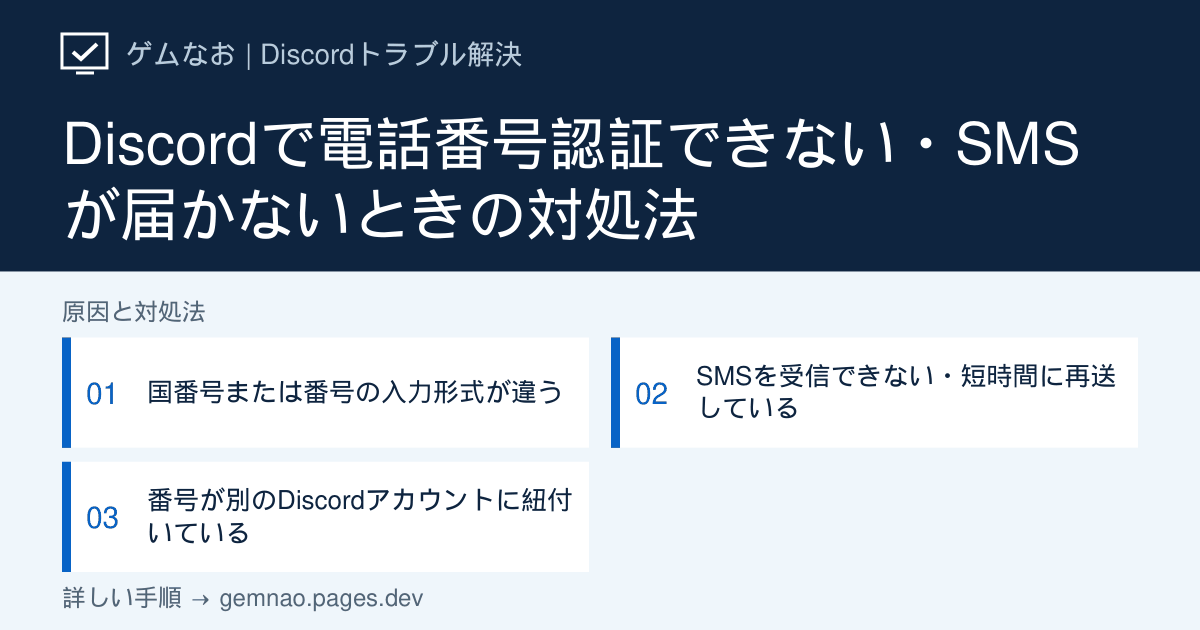
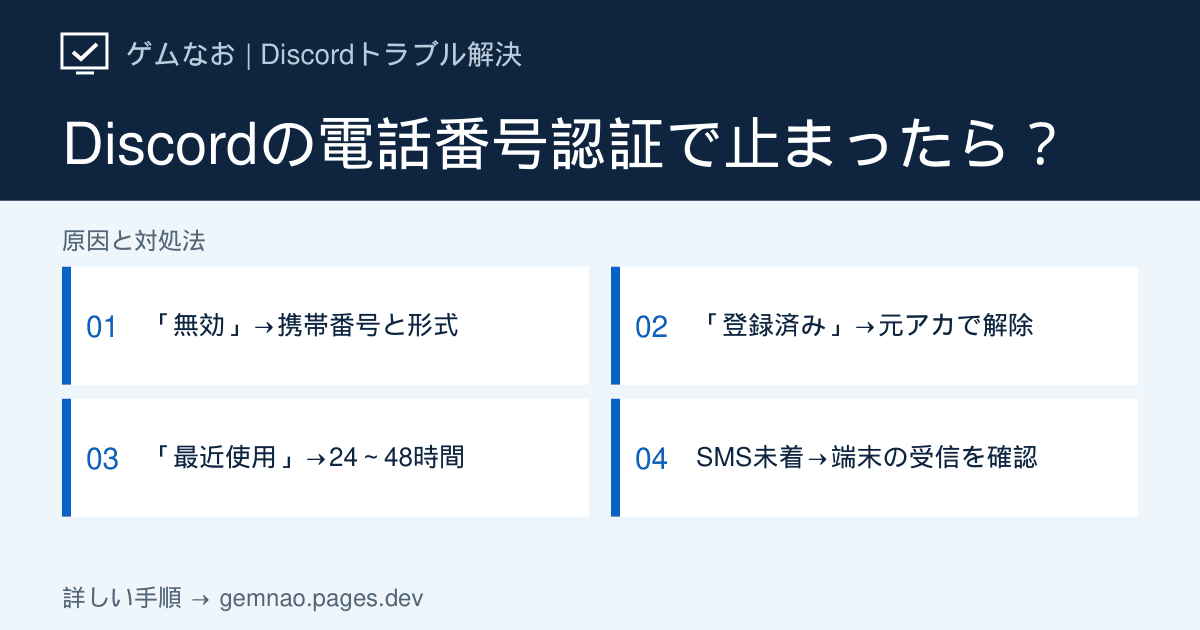
Improve Discord phone verification troubleshooting guide

diff --git a/lib/discord-audio-growth-articles.ts b/lib/discord-audio-growth-articles.ts
@@ -210,25 +210,151 @@ export const discordAudioGrowthArticles: DiscordArticle[] = [
     sources: [voiceGuide], related: ['cant-hear-voice', 'mic-volume-low', 'game-volume-lowers'], checkedAt: '2026-09-19', status: 'verified',
   },
   {
-    slug: 'phone-verification-error', category: 'launch',
-    title: 'Discordで電話番号認証できない・SMSが届かないときの対処法',
-    shortTitle: '電話番号認証できない',
-    seoTitle: 'Discordで電話番号認証できない・SMSが届かない時の対処法',
-    metaDescription: 'Discordで電話番号が無効と出る、認証SMSが届かない場合の確認事項。国番号、入力形式、既存アカウントとの紐付け、時間制限を安全に確認します。',
-    symptom: '電話番号認証で「無効な電話番号」と表示される、SMSの確認コードが届かない、同じ番号を使用できない場合の手順です。',
-    target: 'Discordデスクトップ版 / ブラウザ版 / モバイル版',
-    conclusion: '国番号と入力形式を確認し、短時間の再送を止めて待ちます。同じ番号が別アカウントに登録されていないか確認し、解決しなければ公式サポートへ問い合わせます。',
-    quickFixes: ['国番号と電話番号の入力形式を確認する', 'SMS拒否設定と通信状態を確認し、再送を連打せず待つ', '別アカウントに同じ番号が登録されていないか確認する'],
+    slug: 'phone-verification-error',
+    category: 'launch',
+    title:
+      'Discordの電話番号認証ができない｜無効・登録済み・SMSが届かない場合の直し方',
+    shortTitle: '電話番号認証・SMSが届かない',
+    seoTitle:
+      'Discordの電話番号認証ができない｜無効・登録済み・SMS未着の対処法',
+    metaDescription:
+      'Discordの電話番号認証を表示別に切り分け。「無効な電話番号」「すでに登録済み」、SMS未着、レート制限で確認する場所と次の操作を公式サポートに沿って解説。',
+    symptom:
+      '電話番号を入力すると「無効」「すでに登録済み」と出る、番号は受け付けられたのにSMSが届かない、または「最近使用された」と表示される。エラー文と止まった段階を見て手順を選んでください。',
+    target: 'Discordのアカウント電話番号認証／PC・スマートフォン',
+    conclusion:
+      '「無効」なら入力形式と携帯番号かを確認。「すでに登録済み」なら登録元のアカウントで番号を外します。番号が受け付けられた後にSMSだけ届かない場合は端末の受信と別のSMSを比べ、レート制限の表示が出た場合だけ公式案内の24〜48時間待機を適用します。',
+    quickFixes: [
+      '画面の文言を控える：「無効」「登録済み」「最近使用」「SMS送信後」のどれか',
+      '該当する行の手順を選び、認証コードの再送や番号変更を連続で試さない',
+      '解決しなければエラー文・発生日時・試した操作を添えてDiscord公式サポートへ',
+    ],
+    diagnosisTitle: '何と表示される？ 電話番号認証の判定表',
+    diagnosisIntro:
+      '入力時に拒否されたのか、番号の登録後にSMSだけ来ないのかで確認先が変わります。レート制限の24〜48時間は、SMSが届かないすべてのケースに当てはまる待ち時間ではありません。',
+    showStatusCheck: false,
+    diagnosis: [
+      {
+        symptom: '「無効な電話番号」と表示される',
+        check: '国・地域の選択、画面の入力例、SMSを受信できる携帯番号か',
+        causeIndex: 1,
+      },
+      {
+        symptom: '「電話番号はすでに登録されています」などと出る',
+        check: '以前の自分のDiscordアカウントにその番号が登録されていないか',
+        causeIndex: 2,
+      },
+      {
+        symptom: '「レートリミット」「最近使用された」と表示される',
+        check: '公式案内の待機対象。追加操作をせず、24〜48時間後に再試行',
+        causeIndex: 3,
+      },
+      {
+        symptom: '番号は受け付けられたが、認証SMSが届かない',
+        check: '端末でほかのSMSが受信できるか、ブロックや迷惑SMSの設定はどうか',
+        causeIndex: 4,
+      },
+    ],
     causes: [
-      { title: '国番号または番号の入力形式が違う', description: '国の選択と国内番号の入力方法が合わないと無効と判定されます。', actions: ['国・地域に日本が選ばれているか確認する', '画面の入力例に従って番号を入れ直す', '空白や不要な記号が入っていないか確認する'] },
-      { title: 'SMSを受信できない・短時間に再送している', description: '通信会社の迷惑SMS設定や一時的な送信制限が影響する場合があります。', actions: ['端末の電波状態とSMS受信を確認する', '迷惑SMS拒否設定を確認する', '再送を繰り返さず時間を置いて再試行する'] },
-      { title: '番号が別のDiscordアカウントに紐付いている', description: '同じ電話番号を複数アカウントで同時に利用できない場合があります。', actions: ['以前使ったDiscordアカウントを確認する', 'アクセス可能なら古いアカウント側の登録状況を確認する', '不明な場合は公式サポートへ状況を伝える'] },
+      {
+        title: '「無効な電話番号」なら形式と番号の種類を確認',
+        description:
+          'Discord公式は、国の番号形式に合う有効な携帯番号が必要で、固定電話・VoIP・使い捨て番号は利用できないと案内しています。',
+        actions: [
+          '電話番号入力画面で、住んでいる国・地域が正しいかを確認する。日本の携帯番号なら、日本が選ばれているか見る',
+          '入力欄の例に従って番号を入れ直す。国番号と先頭の0の扱いは画面の形式に従い、推測で足したり削ったりしない',
+          '固定電話・VoIP・使い捨て番号ではなく、本人が使える携帯番号か確認する',
+          '同じ番号と形式でまだ「無効」なら、エラー画面を控えて公式サポートへ相談する。別人の番号で回避しない',
+        ],
+        note: '「無効」と出ている間はSMSの受信設定を調べても、番号の受付可否は変わりません。先に画面上の入力結果を確認してください。',
+      },
+      {
+        title: '「すでに登録済み」なら登録元のアカウントで番号を外す',
+        description:
+          '同じ番号を同時に登録できるDiscordアカウントは1つです。元のアカウントへアクセスできるかで手順を分けます。',
+        actions: [
+          '以前使ったDiscordアカウントにログインできるなら、PC版・ブラウザ版で「ユーザー設定」→「マイアカウント」を開き、電話番号の「削除」を選んでパスワードを入力する',
+          'スマートフォン版なら自分のアイコン→設定→「アカウント」→「電話番号」→「電話番号を削除」へ進む。表示名はアプリ更新で変わる場合がある',
+          '削除後は元のアカウントに番号が表示されないことを確認する。解除後すぐに新アカウントへ登録できるとは限らず、待機期間がある',
+          '登録元のアカウントへ入れない場合は、公式の「電話番号を削除する方法」にあるアカウント復旧手順を確認する。利用したメールアドレスが分かる場合はそのアドレスから公式サポートへ相談する',
+        ],
+        note: 'Discord公式は、登録元アカウントのメールアドレスが不明な場合、サポート側でそのメールアドレスの開示や番号の解除はできないと案内しています。旧アカウントを推測で削除しないでください。',
+      },
+      {
+        title: '「レートリミット・最近使用された」なら待機する',
+        description:
+          'Discord公式が24〜48時間待つよう案内しているのは、この表示が出る場合です。番号解除後も再利用まで待機が必要な場合があります。',
+        actions: [
+          'エラー文が「レートリミット」「最近使用された」のどちらかに当てはまるか確認し、最後に試した日時を控える',
+          '電話番号の認証・再登録を連続で繰り返さず、公式案内に沿って24〜48時間待つ',
+          '待機後に同じ携帯番号で一度試す。今度は「無効」「登録済み」へ変わったら、該当する別の手順へ進む',
+          '48時間以上経っても同じ表示が続くなら、エラー全文と最後に試した日時を添えて公式サポートへ相談する',
+        ],
+        note: 'SMS未着だけで、この待機エラーが出ていない人に「必ず48時間待てば解決する」とは案内していません。',
+      },
+      {
+        title: '番号は通ったがSMSが届かないなら受信段階を比べる',
+        description:
+          '番号の入力エラーとは別の問題です。以下は端末とSMS受信を切り分けるための確認手順で、Discordが一律の配送時間を保証するものではありません。',
+        actions: [
+          '入力した番号の末尾と、今手元にあるSMS受信端末の番号が一致するか確認する。携帯回線が利用可能かも見る',
+          '標準のSMSアプリで、迷惑メッセージ・ブロック済みの欄を確認する。一般のSMSも届かないなら通信会社のSMS設定や受信状態を確認する',
+          '一般のSMSは届くがDiscordの認証SMSだけ届かないなら、認証画面の表示文を控え、再送を繰り返さずしばらく待ってから公式画面で一度だけ再試行する',
+          '同じ状態が続く場合は、使用端末と携帯会社、エラー表示の有無、最後に送信を試した日時をまとめてDiscord公式サポートへ相談する',
+        ],
+        note: 'SMSが届かないだけでは、番号が無効・登録済み・レート制限のどれかとは断定できません。新たなエラー文が表示されたら判定表の該当行を優先してください。',
+      },
     ],
-    ifNotFixed: '使い捨て・仮想番号などで認証を回避せず、Discord公式サポートへ問い合わせてください。確認コードや個人の電話番号を第三者へ送らないでください。',
+    ifNotFixed:
+      'Discord公式サポート（出典の「問い合わせフォーム」）へ、エラー全文・最終試行日時・デスクトップ／モバイルの別・試した手順を伝えてください。電話番号の全桁、SMS認証コード、パスワード、バックアップコードは記事のコメントや公開画面に載せず、公式の案内に従って扱ってください。',
+    followUp: {
+      title: '番号が以前のアカウントに付いていた場合',
+      description:
+        '旧アカウントへログインできない・誤って番号で別アカウントを作った場合には、Discord公式の番号削除ガイドに復旧操作と相談できる条件が載っています。',
+      href: 'https://support.discord.com/hc/ja/articles/4413460214807-How-to-Remove-a-Phone-Number-From-a-Discord-Account',
+      label: 'Discord公式の電話番号削除ガイドを開く',
+    },
     faqs: [
-      { question: '認証コードを何度送っても届きません', answer: '短時間の再送を止め、SMS拒否設定と通信状態を確認してください。時間を置いても届かない場合は通信会社またはDiscord公式サポートへ確認します。' },
-      { question: '使い捨て番号で認証してもよいですか？', answer: 'アカウントへ再アクセスできなくなる危険があるため案内しません。本人が継続して利用できる番号と公式手順を使用してください。' },
+      {
+        question: '電話番号を古いアカウントから削除したら、すぐ登録できますか？',
+        answer:
+          '必ずしもすぐには登録できません。Discord公式は番号の削除後に再利用までの待機期間があると案内しています。「最近使用された／レートリミット」と表示されたら24〜48時間待ち、それでも同じなら公式サポートへ相談してください。',
+      },
+      {
+        question: 'SMSが来ない場合も24〜48時間待つべきですか？',
+        answer:
+          '24〜48時間は「レートリミット／最近使用された」という表示に対するDiscord公式の目安です。SMS未着だけなら端末のSMS受信、番号の一致、エラー表示の有無を確かめてください。',
+      },
+      {
+        question: '前のアカウントの登録メールが分かりません。サポートで番号を外せますか？',
+        answer:
+          'Discord公式の番号削除ガイドは、登録元アカウントのメールアドレスが分からない場合、サポートはメールアドレスを教えたり番号を解除したりできないと案内しています。先に利用したメールや旧アカウントへのログイン手段を探し、公式の復旧手順を確認してください。',
+      },
     ],
-    sources: [discordSupportRequest, discordStatus], related: ['login-error', 'loading-stuck', 'not-opening'], checkedAt: '2026-09-19', status: 'verified',
+    sources: [
+      {
+        label: 'Discord公式：電話番号エラー別の対処法（日本語）',
+        url: 'https://support.discord.com/hc/ja/articles/26680694104215-Discordの電話番号エラーを修正する方法',
+      },
+      {
+        label: 'Discord公式：アカウント認証と24〜48時間の待機条件（日本語）',
+        url: 'https://support.discord.com/hc/ja/articles/6181726888215-Discordアカウントを認証する方法',
+      },
+      {
+        label: 'Discord公式：電話番号を削除する方法',
+        url: 'https://support.discord.com/hc/ja/articles/4413460214807-How-to-Remove-a-Phone-Number-From-a-Discord-Account',
+      },
+      discordSupportRequest,
+    ],
+    related: ['login-error', 'not-opening'],
+    checkedAt: '2026-09-27',
+    status: 'verified',
+    ogTitle: 'Discordの電話番号認証で止まったら？',
+    ogSteps: [
+      '「無効」→携帯番号と形式',
+      '「登録済み」→元アカで解除',
+      '「最近使用」→24〜48時間',
+      'SMS未着→端末の受信を確認',
+    ],
   },
 ];

diff --git a/app/discord/[slug]/page.tsx b/app/discord/[slug]/page.tsx
@@ -180,7 +180,9 @@ export default async function DiscordArticlePage({
           {item.diagnosis?.length ? (
             <a href="#diagnosis">症状別の判定表</a>
           ) : null}
-          <a href="#status-check">Discord全体の障害確認</a>
+          {item.showStatusCheck !== false ? (
+            <a href="#status-check">Discord全体の障害確認</a>
+          ) : null}
           {item.causes.map((cause, i) => (
             <a href={`#cause-${i + 1}`} key={cause.title}>
               {i + 1}. {cause.title}
@@ -243,24 +245,26 @@ export default async function DiscordArticlePage({
             </section>
           ) : null}
           {visual ? <SolutionIllustration visual={visual} /> : null}
-          <section className="caution-block" id="status-check">
-            <h2>
-              <ShieldAlert size={22} />
-              まずDiscord全体の障害か確認する
-            </h2>
-            <p>
-              PC側の設定を変更する前に、
-              <a
-                href="https://discordstatus.com/"
-                target="_blank"
-                rel="noreferrer"
-              >
-                Discord Status（公式）
-                <ExternalLink size={14} />
-              </a>
-              で大規模な障害が発生していないか確認してください。障害が発表されている場合は、設定変更を進めず復旧を待つことをおすすめします。ゲムなおはリアルタイムの障害状況を自動取得していないため、必ず公式ページで確認してください。
-            </p>
-          </section>
+          {item.showStatusCheck !== false ? (
+            <section className="caution-block" id="status-check">
+              <h2>
+                <ShieldAlert size={22} />
+                まずDiscord全体の障害か確認する
+              </h2>
+              <p>
+                PC側の設定を変更する前に、
+                <a
+                  href="https://discordstatus.com/"
+                  target="_blank"
+                  rel="noreferrer"
+                >
+                  Discord Status（公式）
+                  <ExternalLink size={14} />
+                </a>
+                で大規模な障害が発生していないか確認してください。障害が発表されている場合は、設定変更を進めず復旧を待つことをおすすめします。ゲムなおはリアルタイムの障害状況を自動取得していないため、必ず公式ページで確認してください。
+              </p>
+            </section>
+          ) : null}
           <InteractiveSteps
             contextSlug={`discord-${item.slug}`}
             topic={feedbackTopic[item.category]}

diff --git a/lib/og-image-manifest.ts b/lib/og-image-manifest.ts
@@ -24,7 +24,7 @@ export const ogImageManifest: Record<string, string> = {
   "/discord/not-opening": "6ef5ed70",
   "/discord/notifications-not-working": "1ed1422d",
   "/discord/overlay-not-showing": "7aff7383",
-  "/discord/phone-verification-error": "2e66c5cd",
+  "/discord/phone-verification-error": "7266d12e",
   "/discord/screen-share-black-screen": "27a28c0d",
   "/discord/screen-share-not-working": "950ea3dc",
   "/discord/slow-performance": "b69eb26c",

diff --git a/lib/discord-articles.ts b/lib/discord-articles.ts
@@ -36,6 +36,8 @@ export type DiscordArticle = {
   diagnosis?: { symptom: string; check: string; causeIndex: number }[];
   diagnosisTitle?: string;
   diagnosisIntro?: string;
+  /** Omit the generic outage notice when a specific account or device error needs priority. */
+  showStatusCheck?: boolean;
   causes: DiscordCause[];
   ifNotFixed: string;
   followUp?: {
